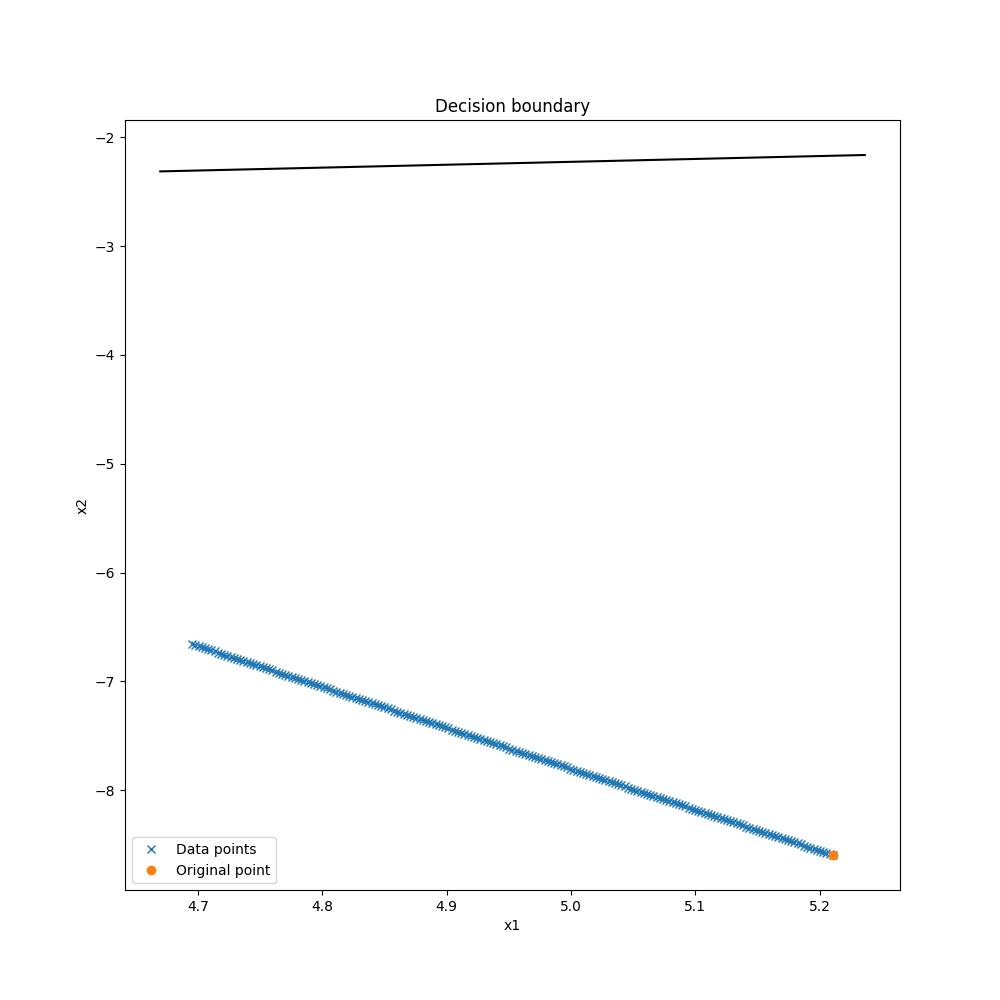
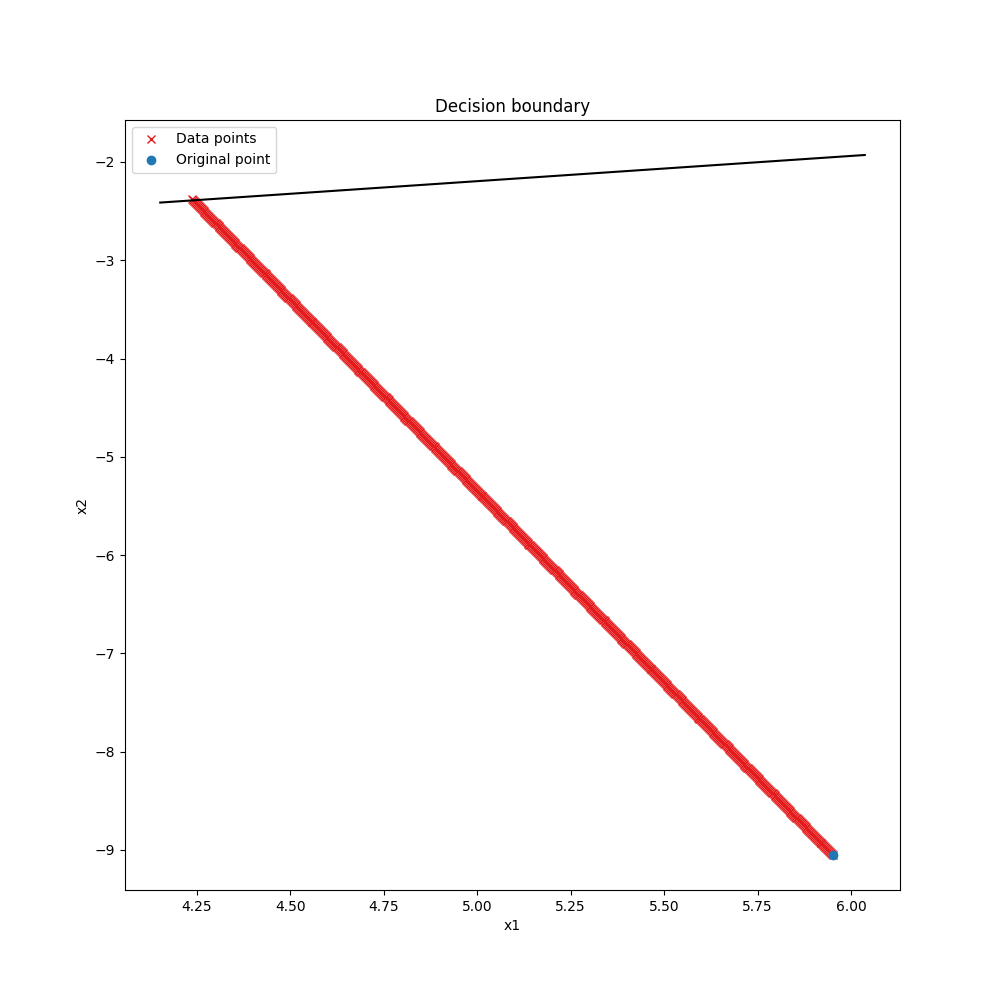
FIX(fgsm)

diff --git a/mlsecu/adversarial_ml_attack_implem.py b/mlsecu/adversarial_ml_attack_implem.py
@@ -56,7 +56,6 @@ def fgsm_attack_svm_2c(classifier:svm.SVC, orig_point, dist_function, step=None,
     fig, ax = plt.subplots(figsize=(10, 10))
     data_points_pos = np.array(data_points_pos)
     ax.plot(data_points_pos[:,0],data_points_pos[:,1], marker="x", linestyle="", label="Data points")
-    ax.plot(orig_point[0],orig_point[1], marker="o", linestyle="", label="Original point")
     # plot the line which separates the two classes
     w = classifier.coef_[0]
     a = -w[0] / w[1]
@@ -88,7 +87,7 @@ if __name__ == "__main__":
     
     dist_func = lambda x, y: np.linalg.norm(x - y)
     
-    orig_point = random.choice(X_test)
+    orig_point = random.choice(X_test[y_test == 0])
     
-    attack_info = fgsm_attack_svm_2c(clf, orig_point, dist_function=dist_func,step=0.05)
+    attack_info = fgsm_attack_svm_2c(clf, orig_point, dist_function=dist_func,step=0.05, max_step=1000)
     print("Attack info:", attack_info)
